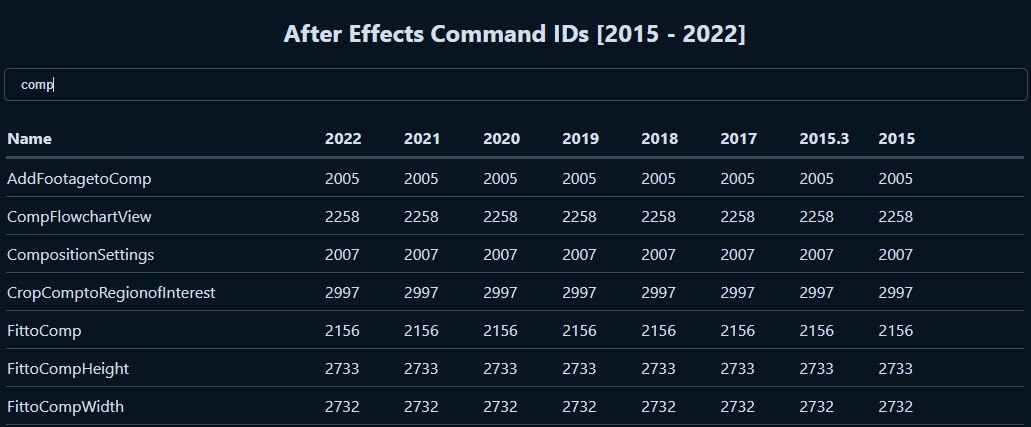
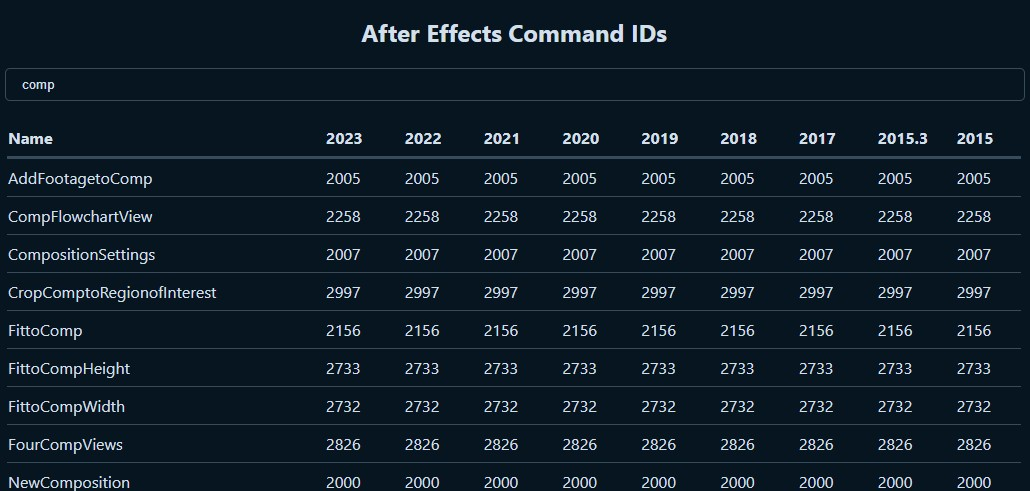
screenshot update

diff --git a/src/app.tsx b/src/app.tsx
@@ -69,7 +69,7 @@ export default () => {
   const [val, setVal] = useState("");
   return (
     <div className="main">
-      <h2>After Effects Command IDs [2015 - 2023]</h2>
+      <h2>After Effects Command IDs</h2>
       <input
         className="searchbox"
         type="text"
